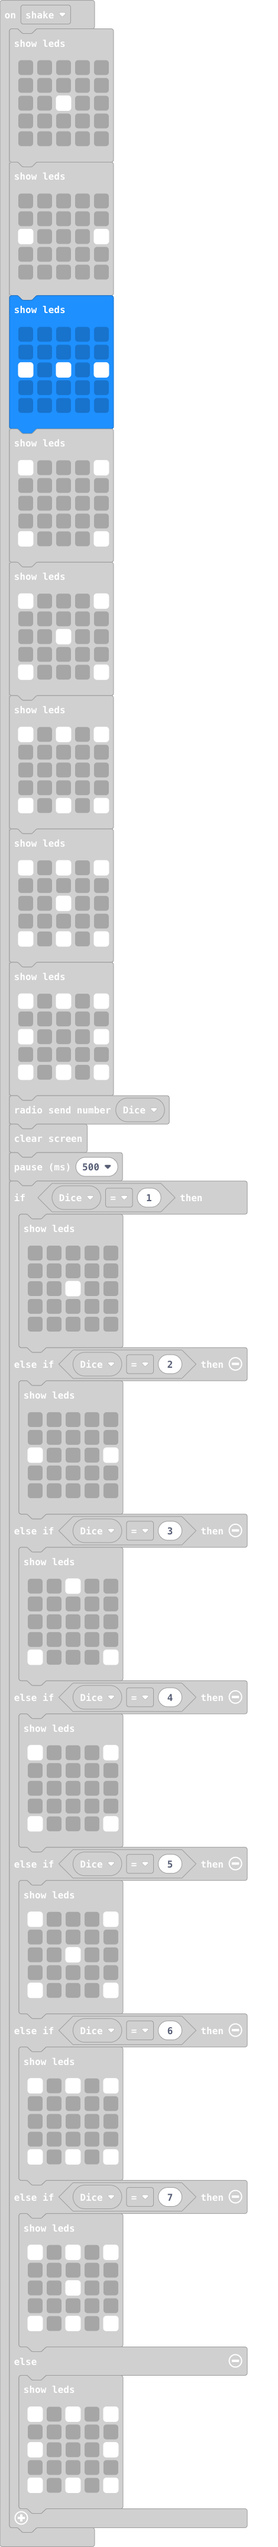
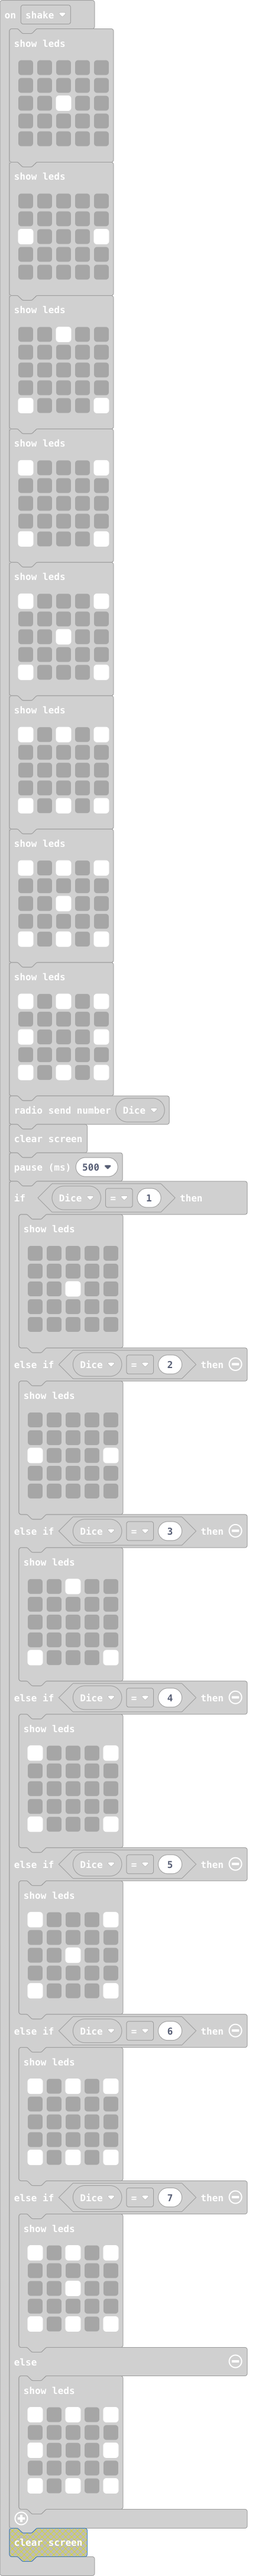
Restore '21/5/2022, 9:28:12 am 5.1.12'

Changed region(s): [[0.0298, 0.0624, 0.8936, 0.9981]]

diff --git a/main.ts b/main.ts
@@ -2,15 +2,23 @@ radio.onReceivedNumber(function (receivedNumber) {
     if (receivedNumber > Dice) {
         basic.showIcon(IconNames.Sad)
         basic.pause(2000)
+        music.playMelody("G B A G C5 B A B ", 120)
+        music.playTone(440, music.beat(BeatFraction.Double))
         control.reset()
     } else if (receivedNumber == Dice) {
         basic.showIcon(IconNames.Asleep)
+        music.playMelody("E B C5 A B G A F ", 120)
         control.reset()
     } else {
         basic.showIcon(IconNames.Happy)
         basic.pause(2000)
+        music.playMelody("C D E F G A B C5 ", 120)
         control.reset()
     }
+})
+input.onButtonPressed(Button.AB, function () {
+    basic.showString("EXITING GAME")
+    control.reset()
 })
 input.onGesture(Gesture.Shake, function () {
     basic.showLeds(`
@@ -28,11 +36,11 @@ input.onGesture(Gesture.Shake, function () {
         . . . . .
         `)
     basic.showLeds(`
+        . . # . .
         . . . . .
         . . . . .
-        # . # . #
         . . . . .
-        . . . . .
+        # . . . #
         `)
     basic.showLeds(`
         # . . . #
@@ -69,6 +77,9 @@ input.onGesture(Gesture.Shake, function () {
         . . . . .
         # . # . #
         `)
+    radio.sendNumber(Dice)
+    basic.clearScreen()
+    basic.pause(500)
     if (Dice == 1) {
         basic.showLeds(`
             . . . . .
@@ -87,11 +98,11 @@ input.onGesture(Gesture.Shake, function () {
             `)
     } else if (Dice == 3) {
         basic.showLeds(`
+            . . # . .
             . . . . .
             . . . . .
-            # . # . #
             . . . . .
-            . . . . .
+            # . . . #
             `)
     } else if (Dice == 4) {
         basic.showLeds(`
@@ -134,9 +145,7 @@ input.onGesture(Gesture.Shake, function () {
             # . # . #
             `)
     }
-    basic.clearScreen()
 })
 let Dice = 0
 radio.setGroup(202)
 Dice = randint(1, 8)
-radio.sendNumber(Dice)
